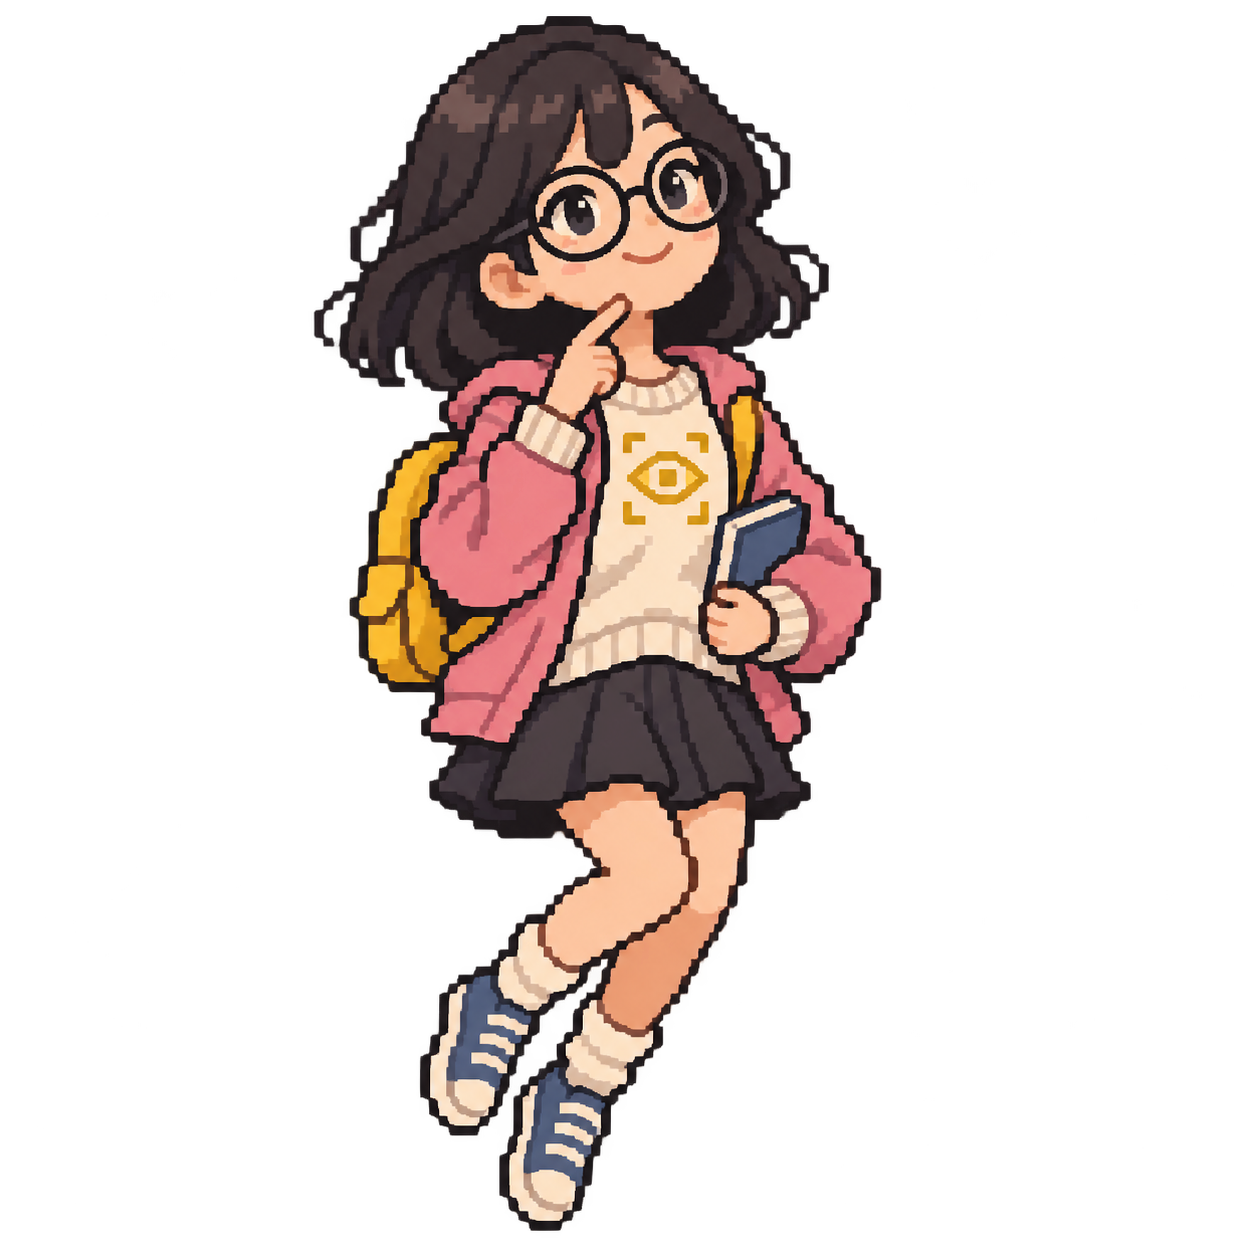
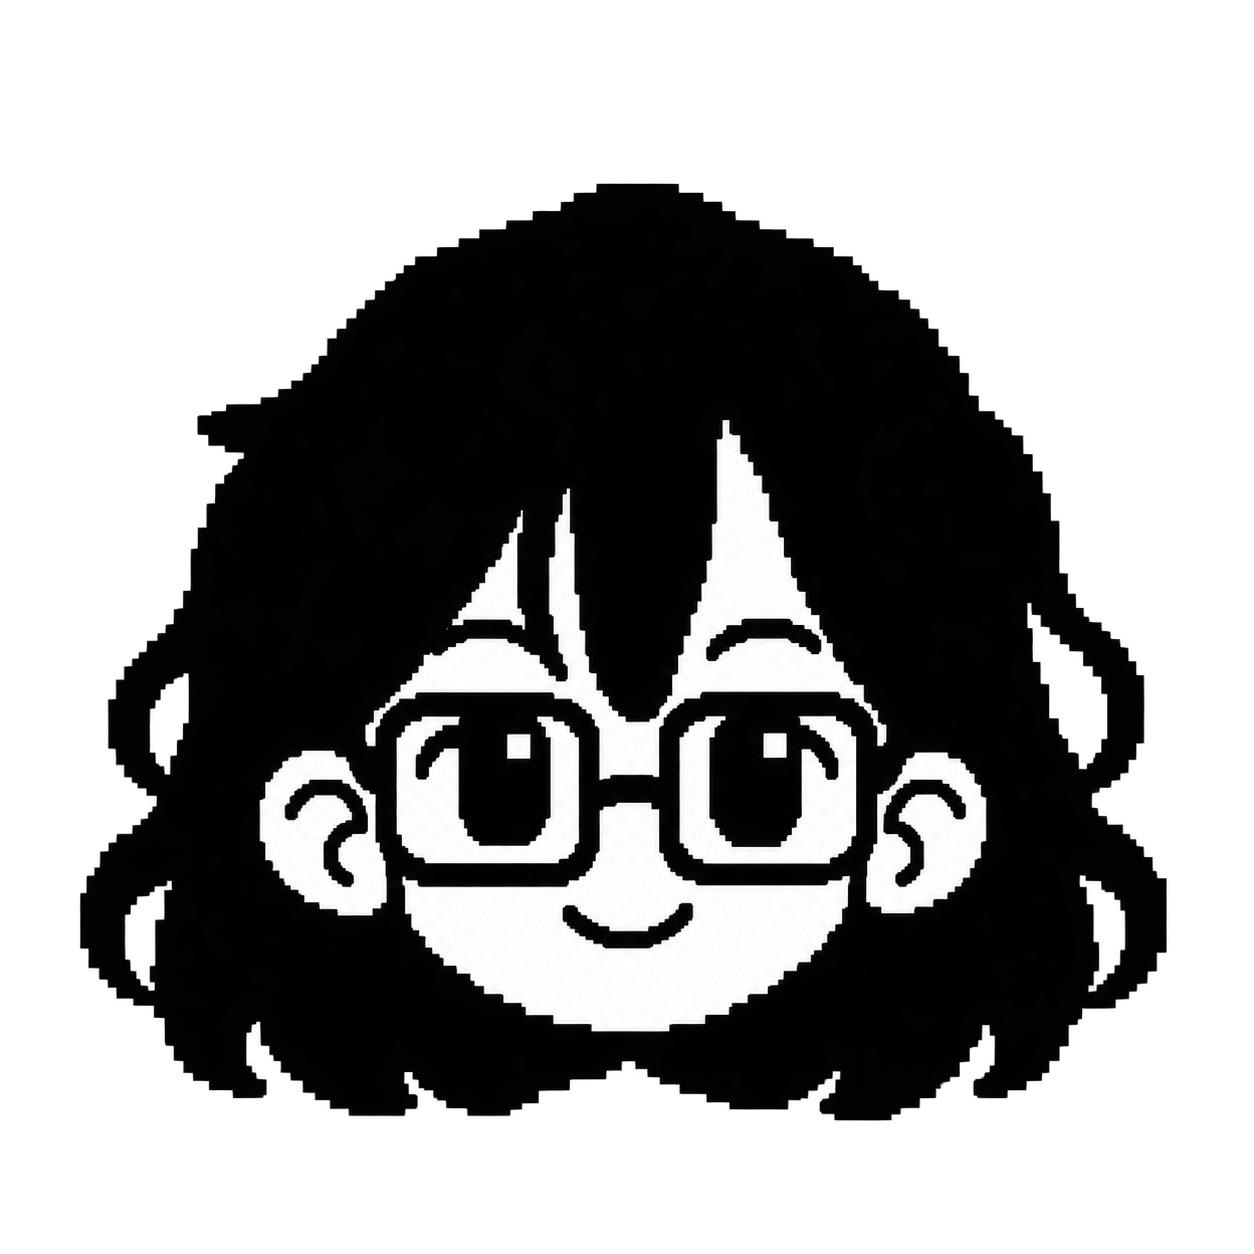
Refine mascot to monochrome floating head

diff --git a/src/index.html b/src/index.html
@@ -74,7 +74,7 @@
           <img
             class="object pixel-girl"
             src="assets/pixel-girl-glasses.png"
-            alt="Pixel-art student with round glasses holding a notebook"
+            alt="Black-and-white pixel-art girl head with rectangular glasses"
             width="1254"
             height="1254"
             decoding="async"

diff --git a/src/styles.css b/src/styles.css
@@ -300,7 +300,7 @@ svg {
 
 .pixel-girl {
   top: 28%;
-  left: 44%;
+  left: 39%;
   z-index: 3;
   width: clamp(11rem, 17vw, 15rem);
   height: auto;
